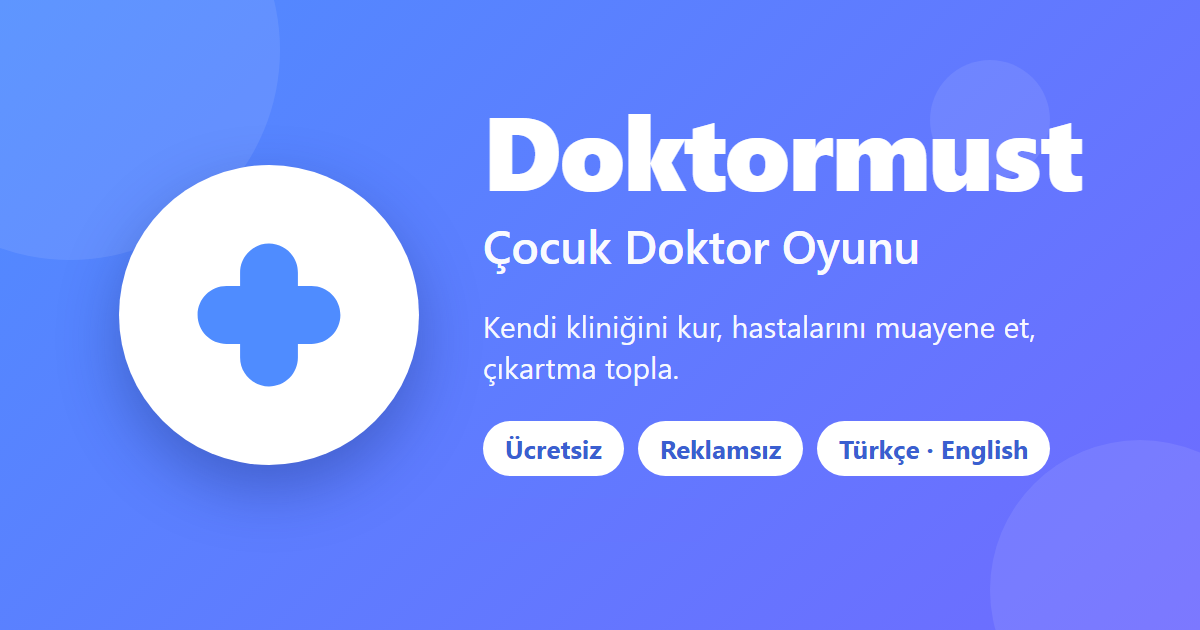
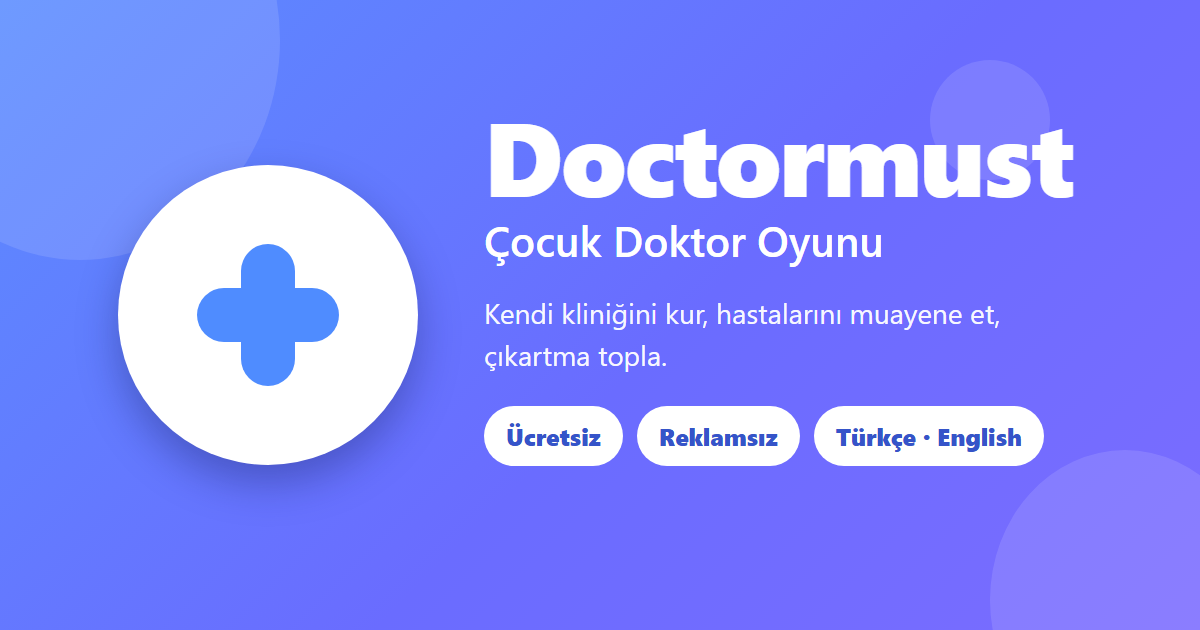
Oyunun gorunen adi Doctormust oldu (adres ve kayitlar ayni)

diff --git a/js/lang-en.js b/js/lang-en.js
@@ -5,8 +5,8 @@
 // Anahtar: koddaki Türkçe metin. Değer: İngilizce karşılığı.
 // {0}, {1}… yer tutucuları iki tarafta da aynı kalmalıdır.
 translations.en = {
-    "Doktormust — Çocuk Doktor Oyunu":
-        "Doktormust — Kids' Doctor Game",
+    "Doctormust — Çocuk Doktor Oyunu":
+        "Doctormust — Kids' Doctor Game",
     "Kendi kliniğini kur, oyun vakalarını çöz ve başarı rozetlerini topla!":
         "Build your own clinic, solve game cases and collect achievement badges!",
     "Hoş geldin! 👋":
@@ -467,10 +467,10 @@ translations.en = {
         "🔗 Paired with the parent app.",
     "Eşleşme kaldırılsın mı? Ebeveyn kodları artık bu profilde çalışmaz.":
         "Remove the pairing? Parent codes will no longer work on this profile.",
-    "Doktormust raporu":
-        "Doktormust report",
-    "Doktormust raporu: {0}":
-        "Doktormust report: {0}",
+    "Doctormust raporu":
+        "Doctormust report",
+    "Doctormust raporu: {0}":
+        "Doctormust report: {0}",
     "📋 Rapor bağlantısı kopyalandı. Kendinize gönderip ebeveyn uygulamasında açın.":
         "📋 Report link copied. Send it to yourself and open it in the parent app.",
     "Bağlantı aşağıdaki kutuda. Kopyalayıp kendinize gönderin.":
@@ -1191,8 +1191,8 @@ translations.en = {
         "Grand Hospital Opening",
     "Kasabanın yeni hastanesi açılıyor ve açılışı sen yapacaksın! Bütün kasaba orada; her türlü vaka gelebilir. Bu, kariyerinin en büyük günü!":
         "The town's new hospital is opening and you're cutting the ribbon! The whole town is there, so any kind of case can come in. It's the biggest day of your career!",
-    "Kurdele kesildi, hastane açıldı! Kasaba halkı seni alkışlıyor: Doktormust'un en iyi doktoru sensin!":
-        "The ribbon is cut and the hospital is open! The town is cheering: you're Doktormust's best doctor!",
+    "Kurdele kesildi, hastane açıldı! Kasaba halkı seni alkışlıyor: Doctormust'un en iyi doktoru sensin!":
+        "The ribbon is cut and the hospital is open! The town is cheering: you're Doctormust's best doctor!",
     "Gezi Doktoru":
         "Trip Doctor",
     "\"Okul Gezisi\" bölümünü tamamla.":
@@ -1815,8 +1815,8 @@ translations.en = {
         "Loading a backup replaces your current progress. Continue?",
     "📥 Yedek yüklendi!":
         "📥 Backup loaded!",
-    "⚠ Bu dosya geçerli bir Doktormust yedeği değil.":
-        "⚠ This file is not a valid Doktormust backup.",
+    "⚠ Bu dosya geçerli bir Doctormust yedeği değil.":
+        "⚠ This file is not a valid Doctormust backup.",
     "✅ Sayfa tamamlandı, ödülün alındı!":
         "✅ Page complete, reward claimed!",
     "Sayfayı tamamla: +5 💎 ve +100 coin":
@@ -3119,8 +3119,8 @@ translations.en = {
         "😌 Great! You took {0} deep breaths. I hope you feel calmer now.",
     "İlerleme şu anda kalıcı kaydedilemedi.":
         "Progress could not be saved permanently right now.",
-    "📲 Doktormust bu cihaza yüklendi!":
-        "📲 Doktormust is installed on this device!",
+    "📲 Doctormust bu cihaza yüklendi!":
+        "📲 Doctormust is installed on this device!",
     "⚠ Eski kayıt okunamadı. Kayıt korunuyor; misafir olarak oynayabilirsin.":
         "⚠ The old save could not be read. It is kept safe; you can play as a guest.",
     "🪙 Bu rapor için yeterli coinin yok.":
@@ -3369,8 +3369,8 @@ translations.en = {
         "This diploma is awarded to",
     "adlı doktora, \"{0}\" bölümünü {1} / {2} yıldızla tamamladığı için verilmiştir.":
         "for completing the \"{0}\" chapter with {1} / {2} stars.",
-    "Doktormust Kliniği":
-        "Doktormust Clinic",
+    "Doctormust Kliniği":
+        "Doctormust Clinic",
     "🎓 Diploma indirildi.":
         "🎓 Diploma downloaded.",
     "🎓 Diploma kaydedildi.":

diff --git a/gizlilik.html b/gizlilik.html
@@ -4,8 +4,8 @@
 <meta charset="utf-8">
 <meta name="viewport" content="width=device-width, initial-scale=1">
 <meta name="color-scheme" content="only light">
-<title>Doktormust Gizlilik Politikası</title>
-<meta name="description" content="Doktormust çocuk oyununun gizlilik politikası: oyun kişisel bilgi toplamaz, reklam ve izleme içermez.">
+<title>Doctormust Gizlilik Politikası</title>
+<meta name="description" content="Doctormust çocuk oyununun gizlilik politikası: oyun kişisel bilgi toplamaz, reklam ve izleme içermez.">
 <link rel="icon" href="icons/icon-192.png">
 <style>
     :root { color-scheme: only light; --ink: #17324d; --muted: #52677d; --soft: #eef5ff; --line: #d6e4f5; --primary: #4f8cff; }
@@ -25,15 +25,15 @@
 </head>
 <body>
 <main>
-    <h1>🩺 Doktormust Gizlilik Politikası</h1>
+    <h1>🩺 Doctormust Gizlilik Politikası</h1>
     <p class="muted">Son güncelleme: 14 Ekim 2026</p>
     <nav><a href="#tr">Türkçe</a><a href="#en">English</a><a class="back" href="index.html">← Oyuna dön</a></nav>
 
     <section id="tr" lang="tr">
-        <div class="box"><b>Kısaca:</b> Doktormust hiçbir kişisel bilgi toplamaz. Oyunda reklam, satın alma, izleme ya da analiz aracı yoktur. Oyunun kaydı yalnızca oynandığı cihazda durur.</div>
+        <div class="box"><b>Kısaca:</b> Doctormust hiçbir kişisel bilgi toplamaz. Oyunda reklam, satın alma, izleme ya da analiz aracı yoktur. Oyunun kaydı yalnızca oynandığı cihazda durur.</div>
 
         <h2>1. Toplanan bilgiler</h2>
-        <p>Doktormust çocuklar için yapılmış, kurgusal bir doktorluk oyunudur. Oyun bize ya da başka bir şirkete hiçbir bilgi göndermez. Hesap açmak için e-posta, telefon numarası ya da gerçek ad istenmez.</p>
+        <p>Doctormust çocuklar için yapılmış, kurgusal bir doktorluk oyunudur. Oyun bize ya da başka bir şirkete hiçbir bilgi göndermez. Hesap açmak için e-posta, telefon numarası ya da gerçek ad istenmez.</p>
 
         <h2>2. Cihazda saklananlar</h2>
         <p>Oyunun çalışması için şu bilgiler <b>yalnızca oynandığı cihazda</b> saklanır (tarayıcının yerel deposunda ya da Android uygulamasının kendi klasöründe):</p>
@@ -71,12 +71,12 @@
     <hr>
 
     <section id="en" lang="en">
-        <h1>🩺 Doktormust Privacy Policy</h1>
+        <h1>🩺 Doctormust Privacy Policy</h1>
         <p class="muted">Last updated: 14 October 2026</p>
-        <div class="box"><b>In short:</b> Doktormust collects no personal information. The game has no ads, no purchases and no tracking or analytics tools. Game progress stays only on the device where it is played.</div>
+        <div class="box"><b>In short:</b> Doctormust collects no personal information. The game has no ads, no purchases and no tracking or analytics tools. Game progress stays only on the device where it is played.</div>
 
         <h2>1. Information we collect</h2>
-        <p>Doktormust is a pretend doctor game made for children. The game sends no information to us or to any other company. No email address, phone number or real name is needed.</p>
+        <p>Doctormust is a pretend doctor game made for children. The game sends no information to us or to any other company. No email address, phone number or real name is needed.</p>
 
         <h2>2. Stored on the device</h2>
         <p>To work, the game stores the following <b>only on the device where it is played</b> (in the browser's local storage or in the Android app's own folder):</p>

diff --git a/index.html b/index.html
@@ -7,19 +7,19 @@
 <!-- Oyunun kendi koyu modu vardir; tarayicinin ya da eklentilerin sayfayi zorla karartmasi renkleri bozar. -->
 <meta name="color-scheme" content="only light">
 <meta name="darkreader-lock">
-<title>Doktormust — Çocuk Doktor Oyunu</title>
-<meta name="description" content="Doktormust, çocuklar için ücretsiz ve reklamsız bir doktor oyunu. Kendi kliniğini kur, hastalarını muayene et, mini oyunlar oyna ve çıkartma topla. Türkçe ve İngilizce.">
+<title>Doctormust — Çocuk Doktor Oyunu</title>
+<meta name="description" content="Doctormust, çocuklar için ücretsiz ve reklamsız bir doktor oyunu. Kendi kliniğini kur, hastalarını muayene et, mini oyunlar oyna ve çıkartma topla. Türkçe ve İngilizce.">
 <link rel="canonical" href="https://orhankader80-beep.github.io/doktormust/">
 <meta property="og:type" content="website">
-<meta property="og:site_name" content="Doktormust">
-<meta property="og:title" content="Doktormust — Çocuk Doktor Oyunu">
+<meta property="og:site_name" content="Doctormust">
+<meta property="og:title" content="Doctormust — Çocuk Doktor Oyunu">
 <meta property="og:description" content="Kendi kliniğini kur, hastalarını muayene et, çıkartma topla. Ücretsiz ve reklamsız.">
 <meta property="og:url" content="https://orhankader80-beep.github.io/doktormust/">
 <meta property="og:image" content="https://orhankader80-beep.github.io/doktormust/onizleme.png">
 <meta property="og:image:type" content="image/png">
 <meta property="og:image:width" content="1200">
 <meta property="og:image:height" content="630">
-<meta property="og:image:alt" content="Doktormust — Çocuk Doktor Oyunu">
+<meta property="og:image:alt" content="Doctormust — Çocuk Doktor Oyunu">
 <meta property="og:locale" content="tr_TR">
 <meta property="og:locale:alternate" content="en_US">
 <meta name="twitter:card" content="summary_large_image">
@@ -27,8 +27,8 @@
 {
     "@context": "https://schema.org",
     "@type": "VideoGame",
-    "name": "Doktormust",
-    "alternateName": "Doktormust — Çocuk Doktor Oyunu",
+    "name": "Doctormust",
+    "alternateName": "Doctormust — Çocuk Doktor Oyunu",
     "url": "https://orhankader80-beep.github.io/doktormust/",
     "image": "https://orhankader80-beep.github.io/doktormust/onizleme.png",
     "description": "Çocuklar için ücretsiz ve reklamsız doktor oyunu. Kendi kliniğini kur, hastalarını muayene et, mini oyunlar oyna ve çıkartma topla.",
@@ -54,7 +54,7 @@
     <div class="auth-card">
         <div class="auth-hero">
             <div class="hero-logo">🩺</div>
-            <h1>Doktormust</h1>
+            <h1>Doctormust</h1>
             <p>Kendi kliniğini kur, oyun vakalarını çöz ve başarı rozetlerini topla!</p>
             <div class="doctor-art" id="authDoctor"></div>
         </div>
@@ -157,7 +157,7 @@
 <div id="app" hidden>
     <div class="layout">
         <aside class="sidebar">
-            <div class="brand">🩺 <span>Doktormust</span>
+            <div class="brand">🩺 <span>Doctormust</span>
                 <button class="menu-close" type="button" onclick="toggleMenu(false)" aria-label="Menüyü kapat">✕</button>
             </div>
             <nav class="nav" id="nav" aria-label="Ana menü"></nav>

diff --git a/sunum.html b/sunum.html
@@ -5,7 +5,7 @@
 <meta name="viewport" content="width=device-width, initial-scale=1.0">
 <meta name="color-scheme" content="only light">
 <meta name="darkreader-lock">
-<title>Doktormust — Sunum</title>
+<title>Doctormust — Sunum</title>
 <style>
 * { box-sizing: border-box; margin: 0; padding: 0; }
 :root { color-scheme: only light; --u: min(1vw, 1.78vh); }
@@ -95,11 +95,11 @@ ul.big li::before { content: "✚"; position: absolute; left: 0; color: #4f8cff;
 <main class="deck" id="deck">
 <section class="slide cover">
         <div class="logo"><svg viewBox="0 0 100 100" aria-hidden="true"><circle cx="50" cy="50" r="50" fill="#fff"/><path fill="#4f8cff" d="M50 18c-7.7 0-14 6.3-14 14v4H32c-7.7 0-14 6.3-14 14s6.3 14 14 14h4v4c0 7.7 6.3 14 14 14s14-6.3 14-14v-4h4c7.7 0 14-6.3 14-14s-6.3-14-14-14h-4v-4c0-7.7-6.3-14-14-14z"/></svg></div>
-        <h1>Doktormust</h1>
+        <h1>Doctormust</h1>
         <p class="lead">Çocuk Doktor Oyunu</p>
     </section>
 <section class="slide">
-        <h2>Doktormust nedir?</h2>
+        <h2>Doctormust nedir?</h2>
         <div class="cols">
             <div>
                 <ul class="big">

diff --git a/ebeveyn/index.html b/ebeveyn/index.html
@@ -7,7 +7,7 @@
 <meta name="color-scheme" content="only light">
 <meta name="darkreader-lock">
 <meta name="robots" content="noindex">
-<title>Doktormust — Ebeveyn Uygulaması</title>
+<title>Doctormust — Ebeveyn Uygulaması</title>
 <link rel="icon" type="image/png" href="../icons/icon-192.png">
 <style>
 :root { color-scheme: only light; --koyu: #17324d; --mavi: #4f8cff; --mor: #7166ff; --soluk: #61778d; --zemin: #eef4fb; --kart: #ffffff; --cizgi: #dce9f5; --iyi: #1f9d55; --kotu: #c0392b; }
@@ -69,7 +69,7 @@ textarea.girdi { min-height: 84px; resize: vertical; font-size: 13px; }
 
 <header>
     <span aria-hidden="true">👪</span>
-    <h1>Doktormust — Ebeveyn Uygulaması</h1>
+    <h1>Doctormust — Ebeveyn Uygulaması</h1>
     <button id="kilitle" type="button" hidden>🔒 Kilitle</button>
 </header>
 

diff --git a/js/v11.js b/js/v11.js
@@ -484,7 +484,7 @@ chapters.push(
         id: "opening", emoji: "🏥", name: t("Büyük Hastane Açılışı"), cases: 6,
         cards: ["antibiyotik", "dinlenme", "agri_kesici", "mide_ilaci", "vitamin", "alci"],
         intro: t("Kasabanın yeni hastanesi açılıyor ve açılışı sen yapacaksın! Bütün kasaba orada; her türlü vaka gelebilir. Bu, kariyerinin en büyük günü!"),
-        outro: t("Kurdele kesildi, hastane açıldı! Kasaba halkı seni alkışlıyor: Doktormust'un en iyi doktoru sensin!")
+        outro: t("Kurdele kesildi, hastane açıldı! Kasaba halkı seni alkışlıyor: Doctormust'un en iyi doktoru sensin!")
     }
 );
 

diff --git a/js/aile.js b/js/aile.js
@@ -119,7 +119,7 @@ async function sendFamilyReport() {
     // Telefonda paylaşma penceresi açılır; yoksa bağlantı panoya kopyalanır.
     try {
         if (navigator.share && !nativeApp()) {
-            await navigator.share({ title: t("Doktormust raporu"), text: t("Doktormust raporu: {0}", state.doctor.name), url: link });
+            await navigator.share({ title: t("Doctormust raporu"), text: t("Doctormust raporu: {0}", state.doctor.name), url: link });
             return;
         }
     } catch (error) {

diff --git a/js/social.js b/js/social.js
@@ -196,7 +196,7 @@ function drawDiploma(canvas, chapter) {
     context.textAlign = "left";
     context.fillText(dayLabel(dayKey()), 110, 760);
     context.textAlign = "right";
-    context.fillText(t("Doktormust Kliniği"), width - 110, 760);
+    context.fillText(t("Doctormust Kliniği"), width - 110, 760);
 
     context.strokeStyle = "#17324d";
     context.lineWidth = 2;

diff --git a/js/app.js b/js/app.js
@@ -1674,7 +1674,7 @@ async function importBackup(input) {
         if (!currentUser || saved) toast(t("📥 Yedek yüklendi!"), true);
     } catch (error) {
         console.warn("Yedek yüklenemedi.", error);
-        toast(t("⚠ Bu dosya geçerli bir Doktormust yedeği değil."));
+        toast(t("⚠ Bu dosya geçerli bir Doctormust yedeği değil."));
     }
 }
 

diff --git a/js/data.js b/js/data.js
@@ -1329,7 +1329,7 @@ for (const ward of wards) {
 }
 
 const screenData = [
-    ["home", "🏥", t("Klinik"), t("Doktormust Kliniği")],
+    ["home", "🏥", t("Klinik"), t("Doctormust Kliniği")],
     ["clinic", "🎨", t("Süsle"), t("Kliniğimi Süsle")],
     ["patients", "🧒", t("Hastalar"), t("Hastalarım")],
     ["story", "📚", t("Hikâye"), t("Hikâye Modu")],

diff --git a/js/main.js b/js/main.js
@@ -54,7 +54,7 @@ window.addEventListener("beforeinstallprompt", event => {
 window.addEventListener("appinstalled", () => {
     installPrompt = null;
     renderInstall();
-    toast(t("📲 Doktormust bu cihaza yüklendi!"));
+    toast(t("📲 Doctormust bu cihaza yüklendi!"));
 });
 
 window.addEventListener("load", registerWorker);

diff --git a/sw.js b/sw.js
@@ -2,7 +2,7 @@
 
 // Çevrimdışı destek. Dosyalar önce ağdan istenir (çevrimiçiyken hep güncel sürüm),
 // ağ yoksa önbellekten verilir. Dosya listesi değişince CACHE adını da değiştir.
-const CACHE = "doktormust-v11-1";
+const CACHE = "doktormust-v11-2";
 
 const FILES = [
     "./",
